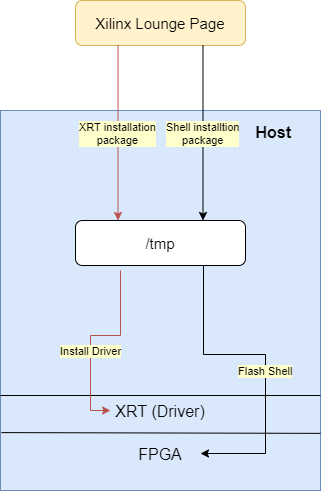
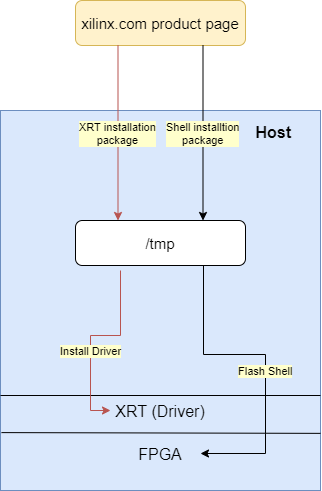
update readme

Changed region(s): [[0.2484, 0.0305, 0.7453, 0.0611]]

diff --git a/README.md b/README.md
@@ -1,10 +1,12 @@
 # Xilinx Runtime Base Image Deployment Docker Solution
 
-This project provides unified docker images for several purposes: 
+This project maintains unified Docker images with XRT (Xilinx runtime) preinstalled and provides scripts to setup and flash the Alveo cards.
 
-* [Setup Host](#setup-host)
+With content found on this repo, the user can:
+
+* [Setup Host (install driver and flash the cards)](#setup-host)
 * [Run Base Docker Image](#run-base-docker-image)
-* [Build docker application by using base image](#build-docker-application-by-using-base-image)
+* [Customize Docker Image for new Application](#build-docker-application-by-using-base-image)
 
 ## Background
 
@@ -14,8 +16,8 @@ Docker is a set of platform-as-a-service (PaaS) products that use OS-level virtu
 
 For running docker containers of FPGA applications, there are several preconditions:
 1. Install Xilinx Alveo FPGA hardware (Alveo U200, Alveo U250 or Alveo U280) on server.
-2. Install XRT (Xilinx Runtime) on host.
-3. Flash Shell for FPGA on host.
+2. Install XRT (Xilinx Runtime) on host (script provided in this repo).
+3. Flash Shell for FPGA on host  (also included in script in this repo).
 4. Run docker FPGA container with privileged mode or mapping both management device and user device\*.
 > By default, Docker containers are “unprivileged” and cannot, for example, run a Docker daemon inside a Docker container. This is because by default a container is not allowed to access any devices, but a “privileged” container is given access to all devices (see the documentation on cgroups devices). If you want to limit access to a specific device or devices you can use the `--device` flag. It allows you to specify one or more devices that will be accessible within the container. For Xilinx Alveo FPGA, it has management function and user function. Docker will take these two functions as two devices for mapping. 
 
@@ -36,9 +38,14 @@ alveo-2019.2-ubuntu-18.04 | Alveo U200 / U250 / U280 | 2019.2 | Ubuntu 18.04
 
 ## Setup Host
 
-This project will help to install XRT and Shell on the host machine. A single command (host_setup.sh) with two parameters: platform and version can be used to install the XRT, Shell as well as Flash the card.
+In order to install XRT and the platform on the host machine and flash the card, a single command (see host_setup.sh) with two parameters (platform and version) is provided.
 
-The figure shows how installing XRT and Shell is been done. With the specified platform and version, the project copies corresponding XRT and Shell installation packages from [Xilinx lounge page](https://www.xilinx.com/products/boards-and-kits/alveo.html). Then it installs XRT and Shell and flashes the card automatically.  
+The figure below shows how installing XRT and platform is done. With the specified platform and version, the project copies corresponding XRT and platform installation packages from each card product page (U200, U250, U280):
+
+* [Alveo U200](https://www.xilinx.com/products/boards-and-kits/alveo/u200.html#gettingStarted)
+* [Alveo U250](https://www.xilinx.com/products/boards-and-kits/alveo/u250.html#gettingStarted)
+* [Alveo U280](https://www.xilinx.com/products/boards-and-kits/alveo/u280.html#gettingStarted)
+
 
 ![Install XRT and Shell](doc/install_xrt_shell.png)
 
